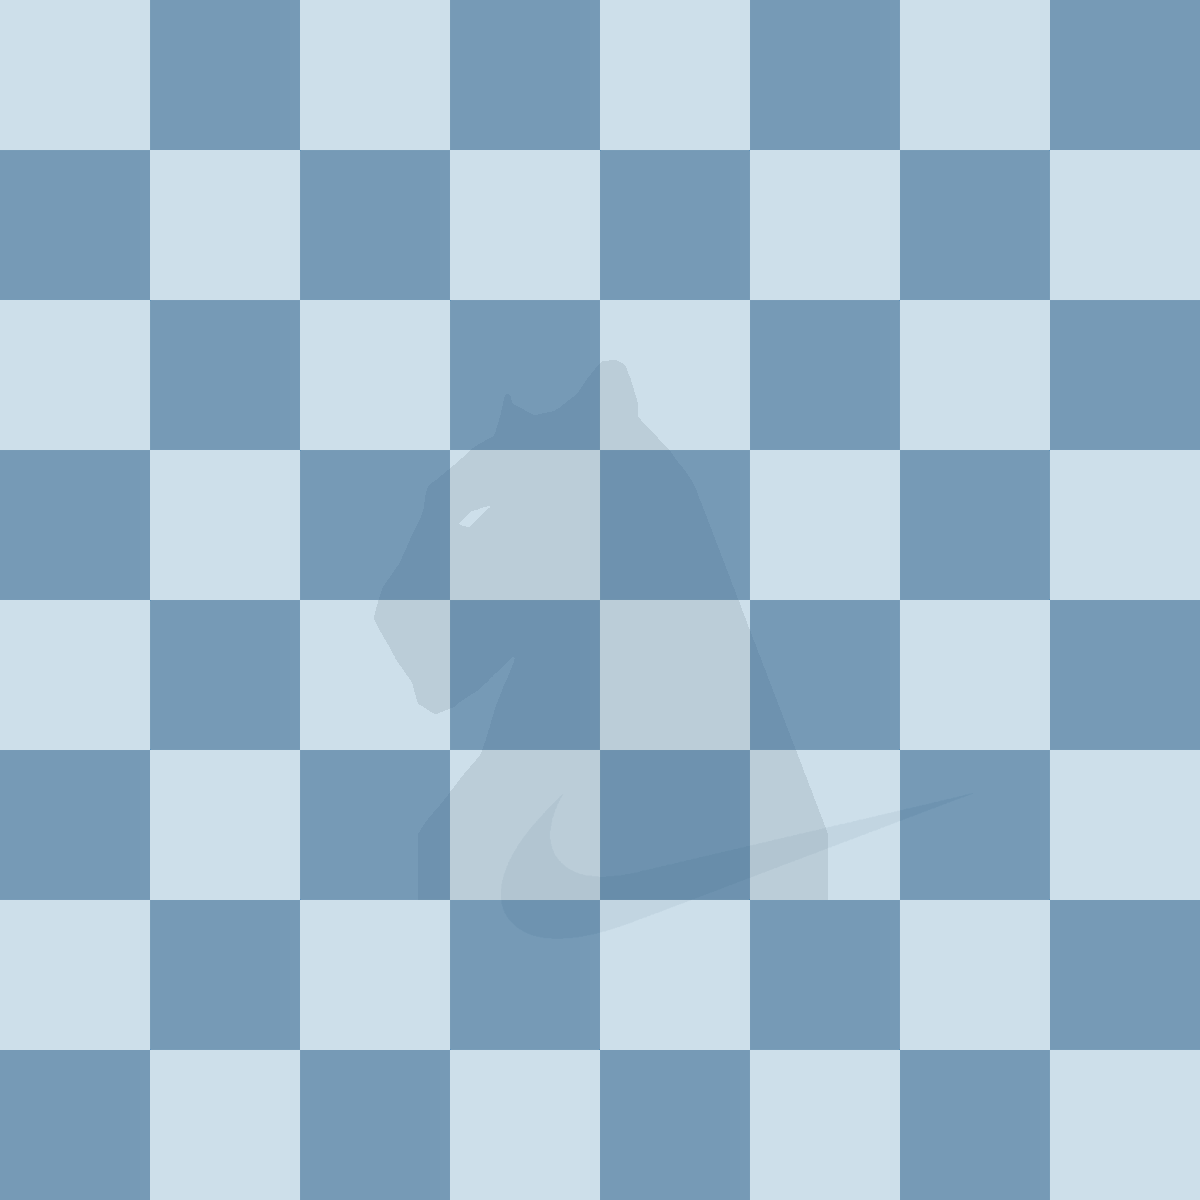
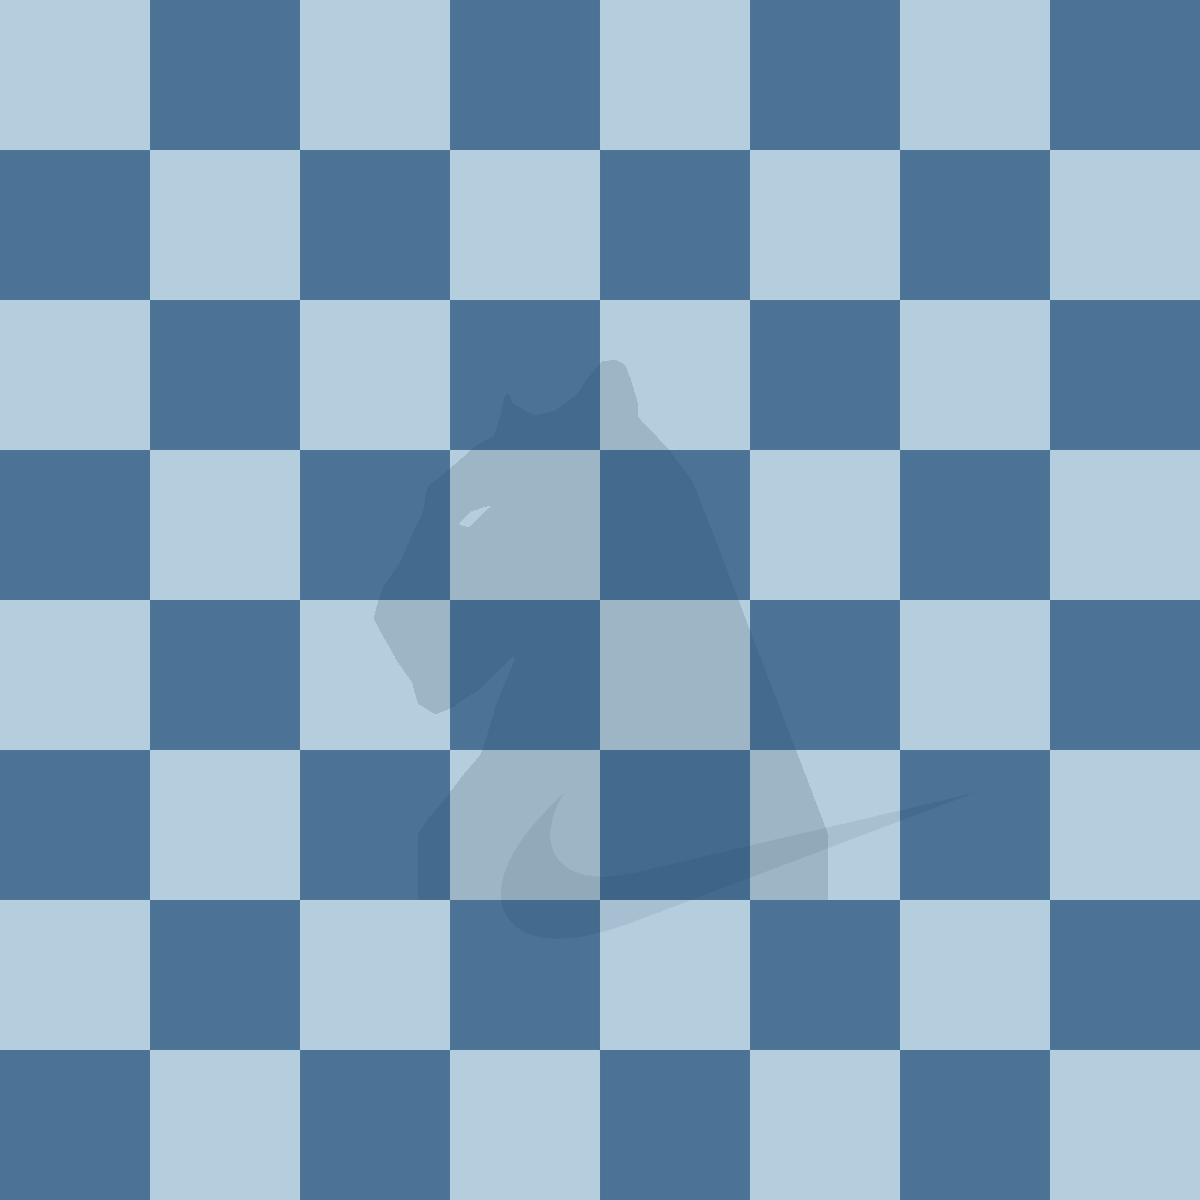
Add files via upload

diff --git a/Furia/Nike_X_FURIA_eSports/Furia_Board_NxF_blue2_for_chesscom.user.css b/Furia/Nike_X_FURIA_eSports/Furia_Board_NxF_blue2_for_chesscom.user.css
@@ -1,0 +1,61 @@
+/* ==UserStyle==
+@name           Chess.com Board: Nike x Furia 2021
+@namespace      USO Archive
+@author         agiota_do_artenio
+@description    `Chess board inspired on "Nike x Furia" 2021 collection release.`
+@version        20200831.22.25
+@license        NO-REDISTRIBUTION
+@preprocessor   uso
+==/UserStyle== */
+@-moz-document domain("chess.com") {
+/*Chessboard*/    
+.board,
+div[class^="daily-puzzle-board"],
+div[class^="board chessboard-component"],
+div[class^="board v-board chessboard-component"],
+div[class^="board rounded"],
+div[class^="board rounded fippled"],
+div[class^="board fippled rounded"],
+div[class^="board v-board rounded"],
+div[class^="board v-board fippled rounded"],
+div[class^="board disabled rounded"],
+div[id$="_ChessBoard_boardarea"],
+div[id^="chess_com_openingboard_1"],
+div[id^="board_training"],
+div[id^="divBoard_boardarea"],
+div[id^="chess_com_tactics_board"],
+div[id^="chessboard_"],
+div[id*="chessboard_"],
+div[id^="chess_com_chessmentorboard_"],
+div[id*="chess_com_chessmentorboard_"],
+div[id*="chess_com_chessmentor_board_1_boardarea"],
+div[id^="chess_com_emailboard_"],
+div[id^="board-blank"],
+chess-board[class^="board"],
+chess-board[class^="board flipped"],
+chess-board[id^="board-blank"],
+chess-board[id^="board-vs-personalities"],
+div[id*="chess_com_emailboard_"] {background-image: url("https://github.com/FSA1/Styles/raw/main/Furia/Nike_X_FURIA_eSports/NxF_cb_blue2.png")!important;
+}
+/*Coordinates*/
+div.number.coords-light, div.letter.coords-light {
+    color: rgb(136, 164, 181)!important;
+}
+div.number.coords-dark, div.letter.coords-dark {
+    color: rgb(208, 215, 218) !important;
+}
+text.coordinate-light {
+    fill: rgb(136, 164, 181)!important;
+}    
+text.coordinate-dark {
+    fill: rgb(208, 215, 218) !important;
+}   
+/*Highlight*/
+.move-square{
+	background-color: #38abd9!important;
+}    
+.selection-square{
+    background-color: #0058cc !important;
+}
+/*End of the code*/
+}

diff --git a/Furia/Nike_X_FURIA_eSports/Furia_Board_NxF_blue3_for_chesscom.user.css b/Furia/Nike_X_FURIA_eSports/Furia_Board_NxF_blue3_for_chesscom.user.css
@@ -1,0 +1,61 @@
+/* ==UserStyle==
+@name           Chess.com Board: Nike x Furia 2021
+@namespace      USO Archive
+@author         agiota_do_artenio
+@description    `Chess board inspired on "Nike x Furia" 2021 collection release.`
+@version        20200831.22.25
+@license        NO-REDISTRIBUTION
+@preprocessor   uso
+==/UserStyle== */
+@-moz-document domain("chess.com") {
+/*Chessboard*/    
+.board,
+div[class^="daily-puzzle-board"],
+div[class^="board chessboard-component"],
+div[class^="board v-board chessboard-component"],
+div[class^="board rounded"],
+div[class^="board rounded fippled"],
+div[class^="board fippled rounded"],
+div[class^="board v-board rounded"],
+div[class^="board v-board fippled rounded"],
+div[class^="board disabled rounded"],
+div[id$="_ChessBoard_boardarea"],
+div[id^="chess_com_openingboard_1"],
+div[id^="board_training"],
+div[id^="divBoard_boardarea"],
+div[id^="chess_com_tactics_board"],
+div[id^="chessboard_"],
+div[id*="chessboard_"],
+div[id^="chess_com_chessmentorboard_"],
+div[id*="chess_com_chessmentorboard_"],
+div[id*="chess_com_chessmentor_board_1_boardarea"],
+div[id^="chess_com_emailboard_"],
+div[id^="board-blank"],
+chess-board[class^="board"],
+chess-board[class^="board flipped"],
+chess-board[id^="board-blank"],
+chess-board[id^="board-vs-personalities"],
+div[id*="chess_com_emailboard_"] {background-image: url("https://github.com/FSA1/Styles/raw/main/Furia/Nike_X_FURIA_eSports/NxF_cb_blue3.png")!important;
+}
+/*Coordinates*/
+div.number.coords-light, div.letter.coords-light {
+    color: rgb(136, 164, 181)!important;
+}
+div.number.coords-dark, div.letter.coords-dark {
+    color: rgb(208, 215, 218) !important;
+}
+text.coordinate-light {
+    fill: rgb(136, 164, 181)!important;
+}    
+text.coordinate-dark {
+    fill: rgb(208, 215, 218) !important;
+}   
+/*Highlight*/
+.move-square{
+	background-color: #38abd9!important;
+}    
+.selection-square{
+    background-color: #0058cc !important;
+}
+/*End of the code*/
+}

diff --git a/Furia/Nike_X_FURIA_eSports/Furia_Board_NxF_brown_for_chesscom.user.css b/Furia/Nike_X_FURIA_eSports/Furia_Board_NxF_brown_for_chesscom.user.css
@@ -1,0 +1,61 @@
+/* ==UserStyle==
+@name           Chess.com Board: Nike x Furia 2021
+@namespace      USO Archive
+@author         agiota_do_artenio
+@description    `Chess board inspired on "Nike x Furia" 2021 collection release.`
+@version        20200831.22.25
+@license        NO-REDISTRIBUTION
+@preprocessor   uso
+==/UserStyle== */
+@-moz-document domain("chess.com") {
+/*Chessboard*/    
+.board,
+div[class^="daily-puzzle-board"],
+div[class^="board chessboard-component"],
+div[class^="board v-board chessboard-component"],
+div[class^="board rounded"],
+div[class^="board rounded fippled"],
+div[class^="board fippled rounded"],
+div[class^="board v-board rounded"],
+div[class^="board v-board fippled rounded"],
+div[class^="board disabled rounded"],
+div[id$="_ChessBoard_boardarea"],
+div[id^="chess_com_openingboard_1"],
+div[id^="board_training"],
+div[id^="divBoard_boardarea"],
+div[id^="chess_com_tactics_board"],
+div[id^="chessboard_"],
+div[id*="chessboard_"],
+div[id^="chess_com_chessmentorboard_"],
+div[id*="chess_com_chessmentorboard_"],
+div[id*="chess_com_chessmentor_board_1_boardarea"],
+div[id^="chess_com_emailboard_"],
+div[id^="board-blank"],
+chess-board[class^="board"],
+chess-board[class^="board flipped"],
+chess-board[id^="board-blank"],
+chess-board[id^="board-vs-personalities"],
+div[id*="chess_com_emailboard_"] {background-image: url("https://github.com/FSA1/Styles/raw/main/Furia/Nike_X_FURIA_eSports/NxF_cb_brown.png")!important;
+}
+/*Coordinates*/
+div.number.coords-light, div.letter.coords-light {
+    color: rgb(136, 164, 181)!important;
+}
+div.number.coords-dark, div.letter.coords-dark {
+    color: rgb(208, 215, 218) !important;
+}
+text.coordinate-light {
+    fill: rgb(136, 164, 181)!important;
+}    
+text.coordinate-dark {
+    fill: rgb(208, 215, 218) !important;
+}   
+/*Highlight*/
+.move-square{
+	background-color: #38abd9!important;
+}    
+.selection-square{
+    background-color: #0058cc !important;
+}
+/*End of the code*/
+}

diff --git a/Furia/Nike_X_FURIA_eSports/Furia_Board_NxF_blue_for_chesscom.user.css b/Furia/Nike_X_FURIA_eSports/Furia_Board_NxF_blue_for_chesscom.user.css
@@ -1,0 +1,61 @@
+/* ==UserStyle==
+@name           Chess.com Board: Nike x Furia 2021
+@namespace      USO Archive
+@author         agiota_do_artenio
+@description    `Chess board inspired on "Nike x Furia" 2021 collection release.`
+@version        20200831.22.25
+@license        NO-REDISTRIBUTION
+@preprocessor   uso
+==/UserStyle== */
+@-moz-document domain("chess.com") {
+/*Chessboard*/    
+.board,
+div[class^="daily-puzzle-board"],
+div[class^="board chessboard-component"],
+div[class^="board v-board chessboard-component"],
+div[class^="board rounded"],
+div[class^="board rounded fippled"],
+div[class^="board fippled rounded"],
+div[class^="board v-board rounded"],
+div[class^="board v-board fippled rounded"],
+div[class^="board disabled rounded"],
+div[id$="_ChessBoard_boardarea"],
+div[id^="chess_com_openingboard_1"],
+div[id^="board_training"],
+div[id^="divBoard_boardarea"],
+div[id^="chess_com_tactics_board"],
+div[id^="chessboard_"],
+div[id*="chessboard_"],
+div[id^="chess_com_chessmentorboard_"],
+div[id*="chess_com_chessmentorboard_"],
+div[id*="chess_com_chessmentor_board_1_boardarea"],
+div[id^="chess_com_emailboard_"],
+div[id^="board-blank"],
+chess-board[class^="board"],
+chess-board[class^="board flipped"],
+chess-board[id^="board-blank"],
+chess-board[id^="board-vs-personalities"],
+div[id*="chess_com_emailboard_"] {background-image: url("https://github.com/FSA1/Styles/raw/main/Furia/Nike_X_FURIA_eSports/NxF_cb_blue.png")!important;
+}
+/*Coordinates*/
+div.number.coords-light, div.letter.coords-light {
+    color: rgb(136, 164, 181)!important;
+}
+div.number.coords-dark, div.letter.coords-dark {
+    color: rgb(208, 215, 218) !important;
+}
+text.coordinate-light {
+    fill: rgb(136, 164, 181)!important;
+}    
+text.coordinate-dark {
+    fill: rgb(208, 215, 218) !important;
+}   
+/*Highlight*/
+.move-square{
+	background-color: #38abd9!important;
+}    
+.selection-square{
+    background-color: #0058cc !important;
+}
+/*End of the code*/
+}

diff --git a/Furia/Nike_X_FURIA_eSports/Furia_Board_NxF_gray_for_chesscom.user.css b/Furia/Nike_X_FURIA_eSports/Furia_Board_NxF_gray_for_chesscom.user.css
@@ -1,0 +1,61 @@
+/* ==UserStyle==
+@name           Chess.com Board: Nike x Furia 2021
+@namespace      USO Archive
+@author         agiota_do_artenio
+@description    `Chess board inspired on "Nike x Furia" 2021 collection release.`
+@version        20200831.22.25
+@license        NO-REDISTRIBUTION
+@preprocessor   uso
+==/UserStyle== */
+@-moz-document domain("chess.com") {
+/*Chessboard*/    
+.board,
+div[class^="daily-puzzle-board"],
+div[class^="board chessboard-component"],
+div[class^="board v-board chessboard-component"],
+div[class^="board rounded"],
+div[class^="board rounded fippled"],
+div[class^="board fippled rounded"],
+div[class^="board v-board rounded"],
+div[class^="board v-board fippled rounded"],
+div[class^="board disabled rounded"],
+div[id$="_ChessBoard_boardarea"],
+div[id^="chess_com_openingboard_1"],
+div[id^="board_training"],
+div[id^="divBoard_boardarea"],
+div[id^="chess_com_tactics_board"],
+div[id^="chessboard_"],
+div[id*="chessboard_"],
+div[id^="chess_com_chessmentorboard_"],
+div[id*="chess_com_chessmentorboard_"],
+div[id*="chess_com_chessmentor_board_1_boardarea"],
+div[id^="chess_com_emailboard_"],
+div[id^="board-blank"],
+chess-board[class^="board"],
+chess-board[class^="board flipped"],
+chess-board[id^="board-blank"],
+chess-board[id^="board-vs-personalities"],
+div[id*="chess_com_emailboard_"] {background-image: url("https://github.com/FSA1/Styles/raw/main/Furia/Nike_X_FURIA_eSports/NxF_cb_gray.png")!important;
+}
+/*Coordinates*/
+div.number.coords-light, div.letter.coords-light {
+    color: rgb(136, 164, 181)!important;
+}
+div.number.coords-dark, div.letter.coords-dark {
+    color: rgb(208, 215, 218) !important;
+}
+text.coordinate-light {
+    fill: rgb(136, 164, 181)!important;
+}    
+text.coordinate-dark {
+    fill: rgb(208, 215, 218) !important;
+}   
+/*Highlight*/
+.move-square{
+	background-color: #38abd9!important;
+}    
+.selection-square{
+    background-color: #0058cc !important;
+}
+/*End of the code*/
+}

diff --git a/Furia/Nike_X_FURIA_eSports/Furia_Pieces_NxF_green_for_chesscom.user.css b/Furia/Nike_X_FURIA_eSports/Furia_Pieces_NxF_green_for_chesscom.user.css
@@ -1,0 +1,26 @@
+/* ==UserStyle==
+@name           Chess.com Pieces: Pantera (Nike x Furia 2021)
+@namespace      USO Archive
+@author         agiota_do_artenio
+@description    `Replaces Knights for the panther from "Nike x Furia" 2021 collection release.`
+@version        20200831.22.25
+@license        NO-REDISTRIBUTION
+@preprocessor   uso
+==/UserStyle== */
+@-moz-document domain("chess.com") {
+/*Pieces*/
+div [style*="bn.png"], .piece.bn, .promotion-piece.bn {
+    background-image: url("https://github.com/FSA1/Styles/raw/main/Furia/Nike_X_FURIA_eSports/bn.png")!important;
+}
+div [style*="wn.png"],.piece.wn, .promotion-piece.wn {
+    background-image: url("https://github.com/FSA1/Styles/raw/main/Furia/Nike_X_FURIA_eSports/wn.png")!important;
+}  
+div.game-preview-component > img:nth-child(2), div.game-preview-component > img:nth-child(7){
+        content: url("https://github.com/FSA1/Styles/raw/main/Furia/Nike_X_FURIA_eSports/bn.png")!important;
+}
+div.game-preview-component > img:nth-child(26), div.game-preview-component > img:nth-child(31){
+        content: url("https://github.com/FSA1/Styles/raw/main/Furia/Nike_X_FURIA_eSports/wn.png")!important;
+}
+/*Recomended chess board: Furia by agiota_do_artenio from chess.com blog link: https://www.chess.com/blog/Agiota_do_Artenio*/
+/*End of the code*/
+}
